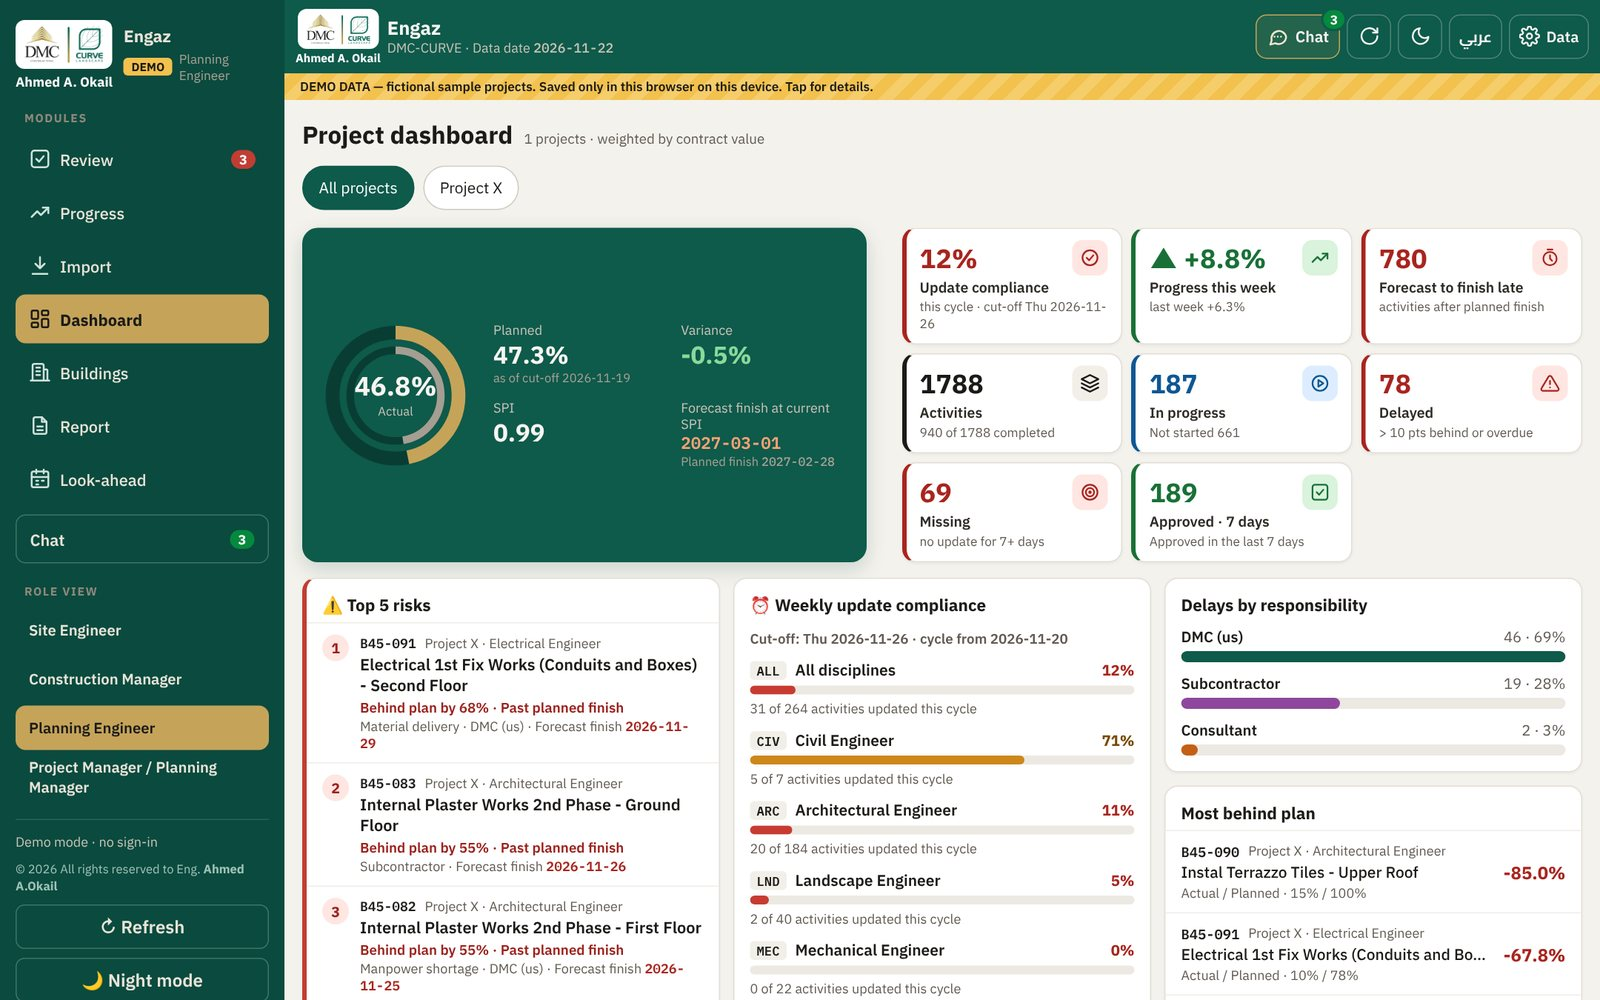
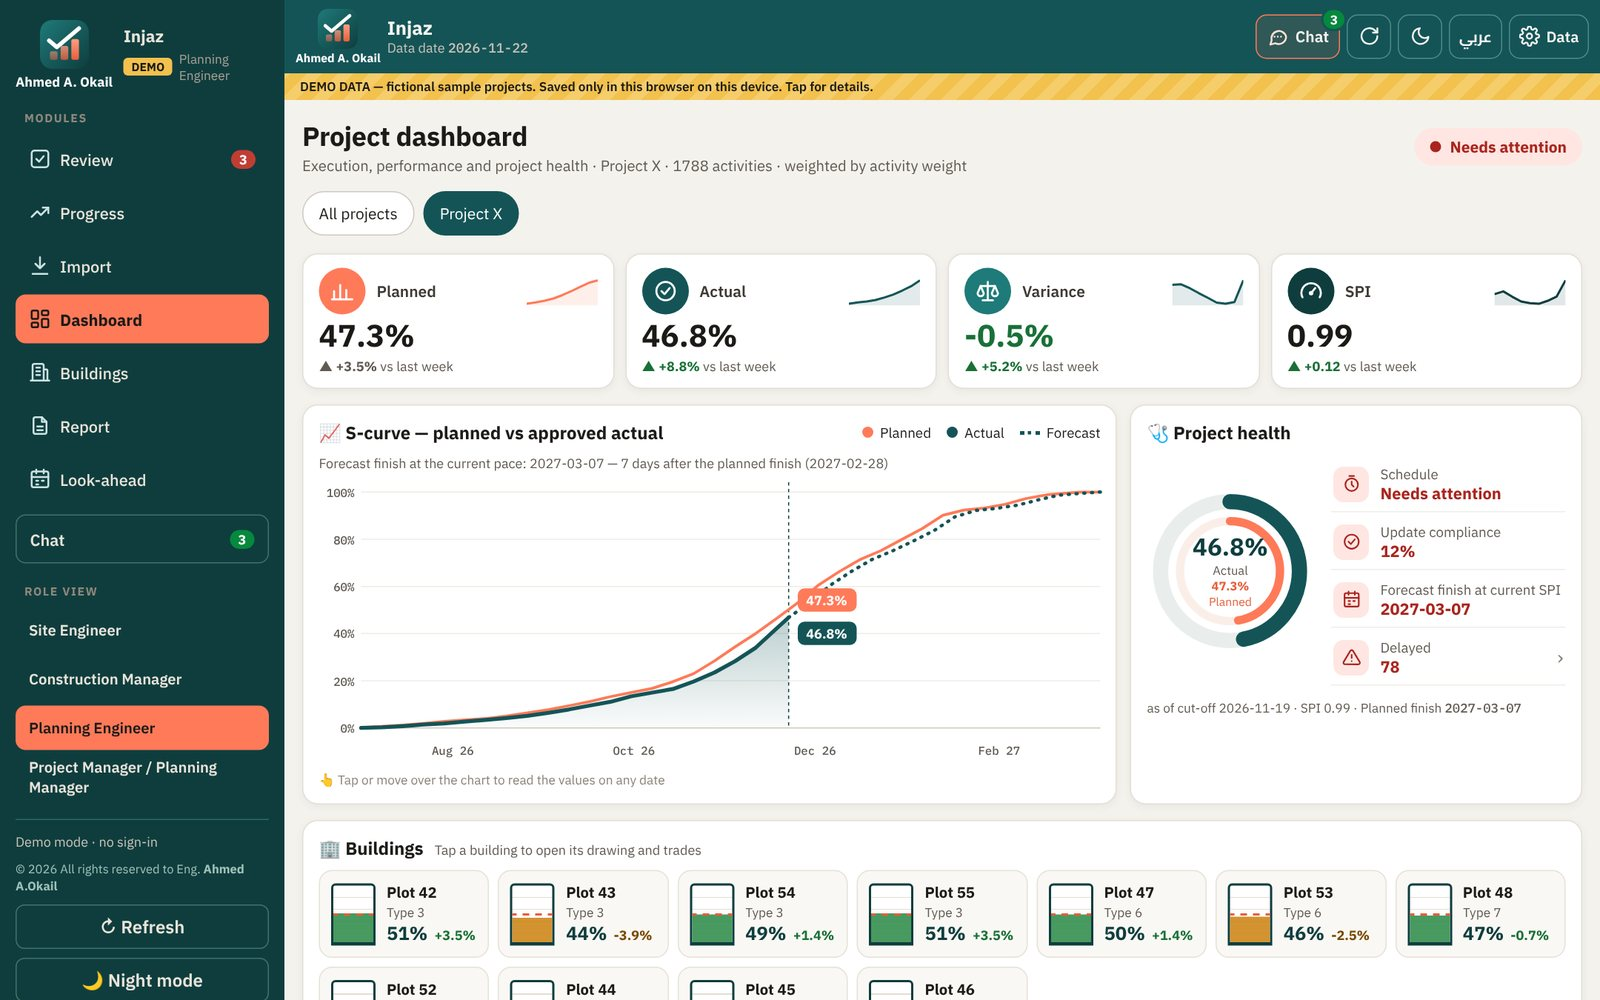
Use Injaz v2: new name spelling and fresh demo screenshots (#24)
Claude-Session: https://claude.ai/code/session_01FSJgK8K4Cozr3sgfaiEheS

diff --git a/app.html b/app.html
@@ -3,10 +3,10 @@
 <head>
 <meta charset="utf-8">
 <meta name="viewport" content="width=device-width, initial-scale=1">
-<title>Engaz (إنجاز) · Ahmed AbuOkail</title>
-<meta name="description" content="Engaz (إنجاز): a construction progress tracking app built by Ahmed AbuOkail. P6 import, mobile updates, approval workflow, dashboards and weekly reports.">
-<meta property="og:title" content="Engaz (إنجاز) · Ahmed AbuOkail">
-<meta property="og:description" content="Engaz (إنجاز): a construction progress tracking app built by Ahmed AbuOkail. P6 import, mobile updates, approval workflow, dashboards and weekly reports.">
+<title>Injaz (إنجاز) · Ahmed AbuOkail</title>
+<meta name="description" content="Injaz (إنجاز): a construction progress tracking app built by Ahmed AbuOkail. P6 import, mobile updates, approval workflow, dashboards and weekly reports.">
+<meta property="og:title" content="Injaz (إنجاز) · Ahmed AbuOkail">
+<meta property="og:description" content="Injaz (إنجاز): a construction progress tracking app built by Ahmed AbuOkail. P6 import, mobile updates, approval workflow, dashboards and weekly reports.">
 <meta property="og:type" content="website">
 <link rel="icon" type="image/png" href="assets/logo-mark.png">
 <link rel="apple-touch-icon" href="assets/logo-mark.png">
@@ -44,7 +44,7 @@
     <div class="wrap">
       <figure class="app-hero reveal">
         <div class="frame"><span></span><span></span><span></span></div>
-        <img src="assets/app/dash.jpg?v=2" alt="Project dashboard" loading="eager" width="1600" height="1000">
+        <img src="assets/app/dash.jpg?v=3" alt="Project dashboard" loading="eager" width="1600" height="1000">
       </figure>
       <p class="hint app-note" data-i="note"></p>
       <div class="counters reveal">
@@ -101,7 +101,7 @@
 "use strict";
 var S=window.Site, $=S.$, esc=S.esc, t=S.t;
 var T={
-en:{appName:'Engaz',kick:'Developed by me', pP:'A progress tracking system I designed and built for construction sites. Site engineers update progress from their phones, the construction manager reviews it, and planning approves it. Management gets weighted progress, dashboards and weekly reports from one source.',
+en:{appName:'Injaz',kick:'Developed by me', pP:'A progress tracking system I designed and built for construction sites. Site engineers update progress from their phones, the construction manager reviews it, and planning approves it. Management gets weighted progress, dashboards and weekly reports from one source.',
  note:'All screenshots use the built-in demo data: a fictional "Project X". No real project data is shown.',
  k1:'User roles', k2:'Activities from a P6 schedule', k3:'Approval steps', k4:'Languages (EN / AR)',
  probT:'Why I built it', prob1:'Site progress used to reach planning through scattered Excel sheets, photos and messages. Numbers arrived late, came in different formats, and nobody could tell which figure was the approved one.',
@@ -137,7 +137,7 @@ $('gal').addEventListener('click',function(e){var b=e.target.closest('[data-src]
 function closeLb(){$('lb').hidden=true;document.body.style.overflow=''}
 $('lb').addEventListener('click',function(e){if(e.target.id!=='lbImg')closeLb()});
 document.addEventListener('keydown',function(e){if(e.key==='Escape'&&!$('lb').hidden)closeLb()});
-S.init({T:T,title:{en:'Engaz',ar:'إنجاز'},render:render});
+S.init({T:T,title:{en:'Injaz',ar:'إنجاز'},render:render});
 })();
 </script>
 <script data-goatcounter="https://3okail-blueprint.goatcounter.com/count" async src="//gc.zgo.at/count.js"></script>

diff --git a/index.html b/index.html
@@ -113,7 +113,7 @@
   <section id="labs">
     <div class="wrap">
       <div class="sheet reveal"><div><div class="no">04 / TOOLS</div><h2 data-i="labsT"></h2></div><p data-i="labsP"></p></div>
-      <a class="feat-app reveal" href="app.html"><img src="assets/app/dash.jpg?v=2" alt="Engaz app dashboard" loading="lazy"><div class="fa"><div><span class="chip" data-i="faK"></span></div><h3 data-i="appName"></h3><p data-i="faP"></p><span class="go" data-i="faGo"></span></div></a>
+      <a class="feat-app reveal" href="app.html"><img src="assets/app/dash.jpg?v=3" alt="Injaz app dashboard" loading="lazy"><div class="fa"><div><span class="chip" data-i="faK"></span></div><h3 data-i="appName"></h3><p data-i="faP"></p><span class="go" data-i="faGo"></span></div></a>
       <div style="height:16px"></div>
       <div class="labs">
         <a class="labcard reveal" href="evm.html">
@@ -199,7 +199,7 @@ en:{
  prjT:'Selected projects', prjP:'Click a project to open its work package.',
  filters:[['all','All'],['site','Project sites'],['office','Head office']],
  open:'Open →', result:'Result', prev:'← Previous', next:'Next →', role:'Role',
- appName:'Engaz', faK:'Developed by me · Web app', faP:'A progress tracking app for construction sites: P6 import, mobile updates, a 3-step approval workflow, live dashboards and one-click weekly reports.', faGo:'See how it works →',
+ appName:'Injaz', faK:'Developed by me · Web app', faP:'A progress tracking app for construction sites: P6 import, mobile updates, a 3-step approval workflow, live dashboards and one-click weekly reports.', faGo:'See how it works →',
  labsT:'Tools I have developed', labsP:'Digital tools I built to make planning and project controls faster: a full progress tracking app, plus three interactive labs you can try.',
  lab1T:'Earned value lab', lab1P:'Set a project\'s budget, time and progress and watch the S-curve, SPI, CPI and EAC react.',
  lab2T:'Delay analysis lab', lab2P:'Drop a delay into a schedule, see if it hits the critical path, and find out whether it earns an EOT.',

diff --git a/README.md b/README.md
@@ -11,7 +11,7 @@ A static, bilingual (English / Arabic RTL) site with light/dark mode. No build s
 | `evm.html` | Earned value lab: sliders drive an S-curve, SPI/CPI/EAC |
 | `delay.html` | Delay analysis lab: insert a delay, see the critical path and EOT entitlement |
 | `tender.html` | Tender schedule lab: BOQ to schedule, critical path, S-curve and monthly cash flow |
-| `app.html` | Engaz (إنجاز): the progress tracking app, with screenshots from its demo data |
+| `app.html` | Injaz (إنجاز): the progress tracking app, with screenshots from its demo data |
 | `articles.html`, `article-*.html` | Articles (EN/AR): Time Impact Analysis, SPI/CPI, BOQ to tender schedule |
 
 Shared styles and behaviour live in `assets/site.css` and `assets/site.js`.
